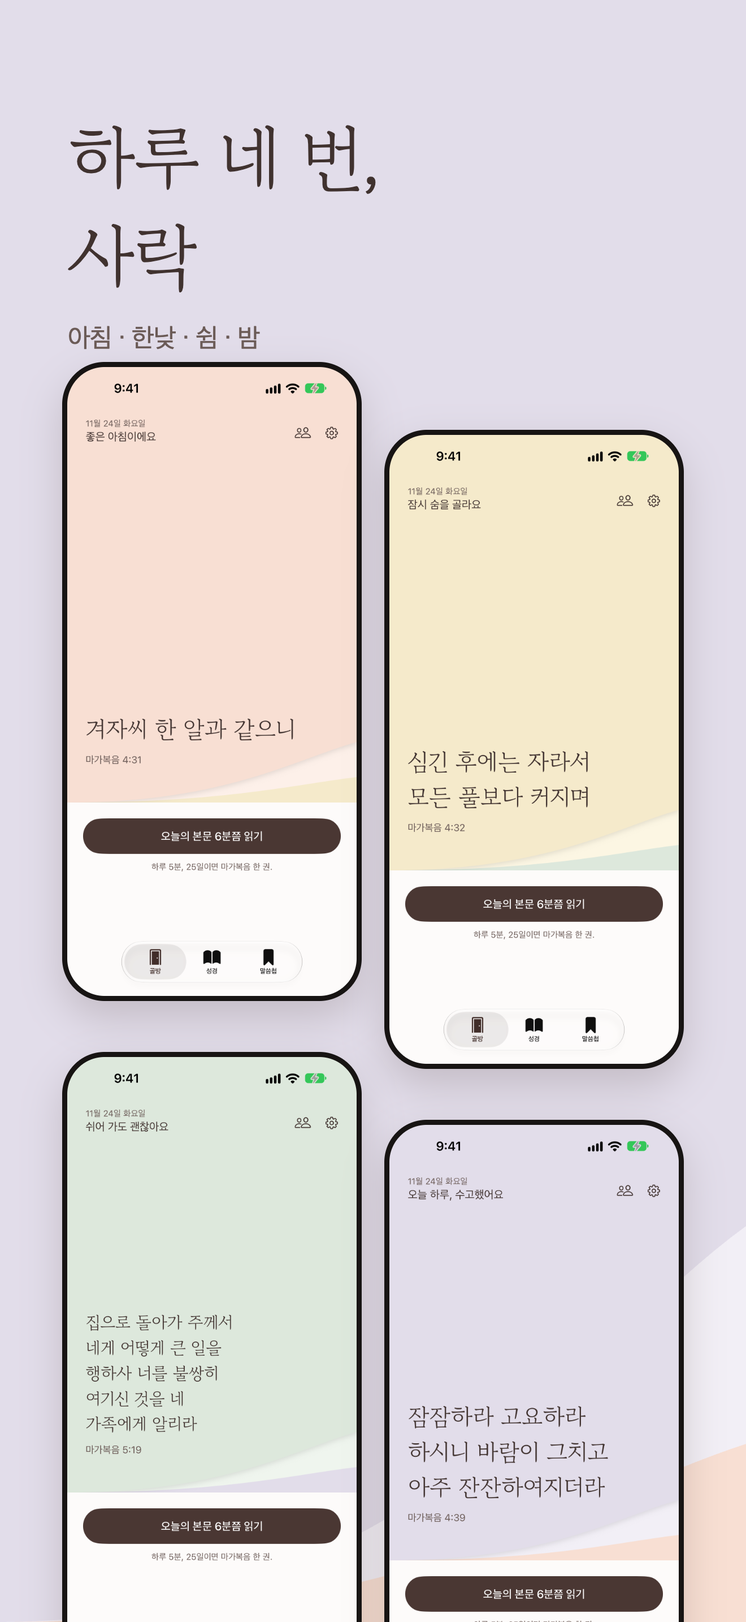
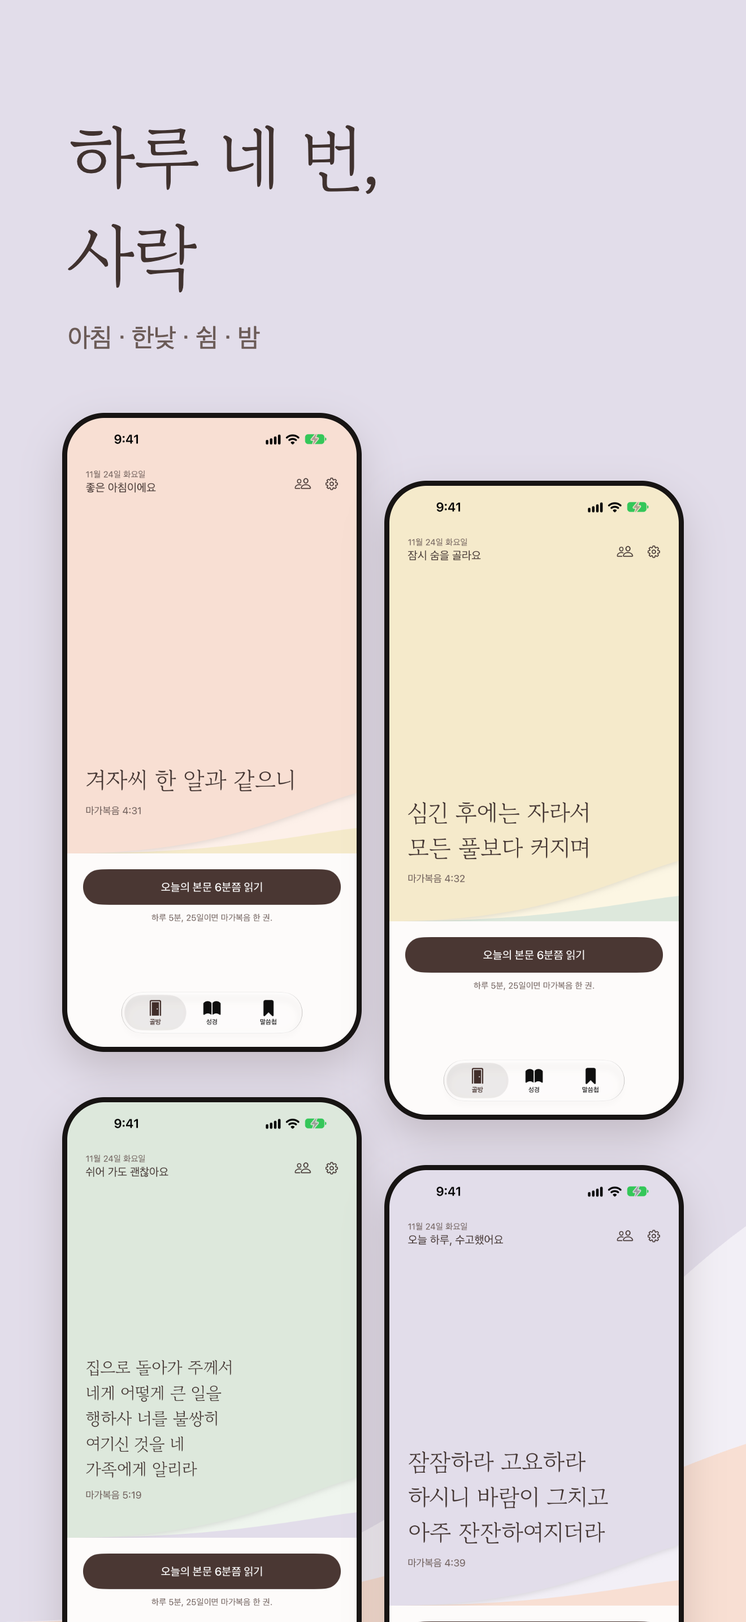
fix: 네 시간 스크린샷 간격

diff --git a/design/screenshots-store/source/board.html b/design/screenshots-store/source/board.html
@@ -1,1 +1,1 @@
-<!doctype html><html lang="ko"><meta charset="utf-8"><style>@font-face{font-family:GB;src:url(../../sarak-3/fonts/GowunBatang-Regular.ttf)}body{margin:0;width:2900px}section{position:relative;overflow:hidden;margin-bottom:40px}.bg{position:absolute;left:0;top:0}h1{position:absolute;margin:0;font:400 1em/1.36 GB;letter-spacing:-.035em;white-space:nowrap}h1 small{display:block;margin-top:.7em;letter-spacing:-.02em;font-family:"Apple SD Gothic Neo",sans-serif}.dev{position:absolute;background:#171413;box-shadow:0 30px 70px rgba(74,55,51,.20)}.dev img{display:block}section[id^=Watch] .dev{box-shadow:none}section[id^=Watch] small{display:none}</style><body><section id="iPhone-1" style="width:1320px;height:2868px"><svg class="bg" width="1320" height="2868"><rect width="1320" height="2868" fill="#DDE8DC"/><path d="M0 0H1320V2553C1030 2648 713 2868 0 2868Z" fill="#FCF6E3"/><path d="M0 0H1320V2168C1030 2378 713 2868 0 2868Z" fill="#F5EACB"/></svg><h1 style="left:120px;top:190px;font-size:128px;color:#40322F">오늘의 말씀이<br>찾아옵니다<small style="color:#6B5B57;font-size:46px">아침을 여는 한 구절</small></h1><div class="dev" style="left:141px;top:870px;border-radius:144px;padding:14px;transform:rotate(0deg)"><img src="../../screenshots-raw/iPhone/ph-room-morning.png" style="width:1010px;border-radius:130px"></div></section><section id="iPhone-2" style="width:1320px;height:2868px"><svg class="bg" width="1320" height="2868"><rect width="1320" height="2868" fill="#F8DFD3"/><path d="M0 0H1320V2553C1030 2648 713 2868 0 2868Z" fill="#F2EFF6"/><path d="M0 0H1320V2168C1030 2378 713 2868 0 2868Z" fill="#E2DDEA"/></svg><h1 style="left:120px;top:190px;font-size:128px;color:#40322F">하루 네 번,<br>사락<small style="color:#6B5B57;font-size:46px">아침 · 한낮 · 쉼 · 밤</small></h1><div class="dev" style="left:110px;top:640px;border-radius:75px;padding:9px;transform:rotate(0deg)"><img src="../../screenshots-raw/iPhone/ph-room-morning.png" style="width:512px;border-radius:66px"></div><div class="dev" style="left:680px;top:760px;border-radius:75px;padding:9px;transform:rotate(0deg)"><img src="../../screenshots-raw/iPhone/ph-room-noon.png" style="width:512px;border-radius:66px"></div><div class="dev" style="left:110px;top:1860px;border-radius:75px;padding:9px;transform:rotate(0deg)"><img src="../../screenshots-raw/iPhone/ph-room-rest.png" style="width:512px;border-radius:66px"></div><div class="dev" style="left:680px;top:1980px;border-radius:75px;padding:9px;transform:rotate(0deg)"><img src="../../screenshots-raw/iPhone/ph-room-night.png" style="width:512px;border-radius:66px"></div></section><section id="iPhone-3" style="width:1320px;height:2868px"><svg class="bg" width="1320" height="2868"><rect width="1320" height="2868" fill="#E2DDEA"/><path d="M0 0H1320V2553C1030 2648 713 2868 0 2868Z" fill="#EFF5EE"/><path d="M0 0H1320V2168C1030 2378 713 2868 0 2868Z" fill="#DDE8DC"/></svg><h1 style="left:120px;top:190px;font-size:128px;color:#40322F">하루 5분,<br>마가복음 한 권<small style="color:#6B5B57;font-size:46px">25일이면 끝까지 읽어요</small></h1><div class="dev" style="left:141px;top:870px;border-radius:144px;padding:14px;transform:rotate(0deg)"><img src="../../screenshots-raw/iPhone/ph-read-morning.png" style="width:1010px;border-radius:130px"></div></section><section id="iPhone-4" style="width:1320px;height:2868px"><svg class="bg" width="1320" height="2868"><rect width="1320" height="2868" fill="#F8DFD3"/><path d="M0 0H1320V2553C1030 2648 713 2868 0 2868Z" fill="#F2EFF6"/><path d="M0 0H1320V2168C1030 2378 713 2868 0 2868Z" fill="#E2DDEA"/></svg><h1 style="left:120px;top:190px;font-size:128px;color:#40322F">마음에 머문 말씀을<br>품어 두세요<small style="color:#6B5B57;font-size:46px">받은 때의 색이 책갈피가 됩니다</small></h1><div class="dev" style="left:141px;top:870px;border-radius:144px;padding:14px;transform:rotate(0deg)"><img src="../../screenshots-raw/iPhone/ph-keep-morning.png" style="width:1010px;border-radius:130px"></div></section><section id="iPhone-5" style="width:1320px;height:2868px"><svg class="bg" width="1320" height="2868"><rect width="1320" height="2868" fill="#F5EACB"/><path d="M0 0H1320V2553C1030 2648 713 2868 0 2868Z" fill="#FDF0E9"/><path d="M0 0H1320V2168C1030 2378 713 2868 0 2868Z" fill="#F8DFD3"/></svg><h1 style="left:120px;top:190px;font-size:128px;color:#40322F">오늘도 한 장<br>넘어갑니다<small style="color:#6B5B57;font-size:46px">감사 한 줄을 남겨 보세요</small></h1><div class="dev" style="left:141px;top:870px;border-radius:144px;padding:14px;transform:rotate(0deg)"><img src="../../screenshots-raw/iPhone/ph-done-rest.png" style="width:1010px;border-radius:130px"></div></section><section id="iPhone-6" style="width:1320px;height:2868px"><svg class="bg" width="1320" height="2868"><rect width="1320" height="2868" fill="#5A443C"/><path d="M0 0H1320V2553C1030 2648 713 2868 0 2868Z" fill="#575164"/><path d="M0 0H1320V2168C1030 2378 713 2868 0 2868Z" fill="#2E2A38"/></svg><h1 style="left:120px;top:190px;font-size:128px;color:#F6ECE6">하루를 덮는<br>밤의 말씀<small style="color:#C6B6AE;font-size:46px">어두운 화면에서도 편안하게</small></h1><div class="dev" style="left:141px;top:870px;border-radius:144px;padding:14px;transform:rotate(0deg)"><img src="../../screenshots-raw/iPhone/ph-room-dark.png" style="width:1010px;border-radius:130px"></div></section><section id="iPad-1" style="width:2064px;height:2752px"><svg class="bg" width="2064" height="2752"><rect width="2064" height="2752" fill="#DDE8DC"/><path d="M0 0H2064V2473C1610 2557 1115 2752 0 2752Z" fill="#FCF6E3"/><path d="M0 0H2064V2132C1610 2318 1115 2752 0 2752Z" fill="#F5EACB"/></svg><h1 style="left:170px;top:200px;font-size:150px;color:#40322F">오늘의 말씀이<br>찾아옵니다<small style="color:#6B5B57;font-size:54px">하루 네 번, 시간의 색으로</small></h1><div class="dev" style="left:238px;top:800px;border-radius:58px;padding:14px;transform:rotate(0deg)"><img src="../../screenshots-raw/iPad/pad-room-morning.png" style="width:1560px;border-radius:44px"></div></section><section id="iPad-2" style="width:2064px;height:2752px"><svg class="bg" width="2064" height="2752"><rect width="2064" height="2752" fill="#E2DDEA"/><path d="M0 0H2064V2473C1610 2557 1115 2752 0 2752Z" fill="#EFF5EE"/><path d="M0 0H2064V2132C1610 2318 1115 2752 0 2752Z" fill="#DDE8DC"/></svg><h1 style="left:170px;top:200px;font-size:150px;color:#40322F">펼치면,<br>한 권의 책<small style="color:#6B5B57;font-size:54px">왼쪽에는 말씀, 오른쪽에는 오늘의 본문</small></h1><div class="dev" style="left:98px;top:960px;border-radius:58px;padding:14px;transform:rotate(0deg)"><img src="../../screenshots-raw/iPad/padL-room-morning.png" style="width:1840px;border-radius:44px"></div></section><section id="iPad-3" style="width:2064px;height:2752px"><svg class="bg" width="2064" height="2752"><rect width="2064" height="2752" fill="#F8DFD3"/><path d="M0 0H2064V2473C1610 2557 1115 2752 0 2752Z" fill="#F2EFF6"/><path d="M0 0H2064V2132C1610 2318 1115 2752 0 2752Z" fill="#E2DDEA"/></svg><h1 style="left:170px;top:200px;font-size:150px;color:#40322F">하루 5분,<br>마가복음 한 권<small style="color:#6B5B57;font-size:54px">25일이면 끝까지 읽어요</small></h1><div class="dev" style="left:238px;top:800px;border-radius:58px;padding:14px;transform:rotate(0deg)"><img src="../../screenshots-raw/iPad/pad-read-morning.png" style="width:1560px;border-radius:44px"></div></section><section id="iPad-4" style="width:2064px;height:2752px"><svg class="bg" width="2064" height="2752"><rect width="2064" height="2752" fill="#F5EACB"/><path d="M0 0H2064V2473C1610 2557 1115 2752 0 2752Z" fill="#FDF0E9"/><path d="M0 0H2064V2132C1610 2318 1115 2752 0 2752Z" fill="#F8DFD3"/></svg><h1 style="left:170px;top:200px;font-size:150px;color:#40322F">마음에 머문 말씀을<br>품어 두세요<small style="color:#6B5B57;font-size:54px">넓은 화면에서 한 구절씩</small></h1><div class="dev" style="left:98px;top:960px;border-radius:58px;padding:14px;transform:rotate(0deg)"><img src="../../screenshots-raw/iPad/padL-keep-morning.png" style="width:1840px;border-radius:44px"></div></section><section id="iPhone-Duo-1" style="width:2853px;height:2007px"><svg class="bg" width="2853" height="2007"><rect width="2853" height="2007" fill="#DDE8DC"/><path d="M0 0H2853V1800C2225 1862 1541 2007 0 2007Z" fill="#FCF6E3"/><path d="M0 0H2853V1547C2225 1685 1541 2007 0 2007Z" fill="#F5EACB"/></svg><h1 style="left:180px;top:150px;font-size:140px;color:#40322F">펼치면, 한 권의 책<small style="color:#6B5B57;font-size:50px">왼쪽에는 말씀, 오른쪽에는 오늘의 본문</small></h1><div class="dev" style="left:470px;top:690px;border-radius:126px;padding:16px;transform:rotate(0deg)"><img src="../../screenshots-raw/iPhone-Duo/duoO-room-morning.png" style="width:1900px;border-radius:110px"></div></section><section id="iPhone-Duo-2" style="width:2853px;height:2007px"><svg class="bg" width="2853" height="2007"><rect width="2853" height="2007" fill="#F5EACB"/><path d="M0 0H2853V1800C2225 1862 1541 2007 0 2007Z" fill="#FDF0E9"/><path d="M0 0H2853V1547C2225 1685 1541 2007 0 2007Z" fill="#F8DFD3"/></svg><h1 style="left:180px;top:150px;font-size:140px;color:#40322F">하루를 덮는 밤의 말씀<small style="color:#6B5B57;font-size:50px">하루 네 번, 시간의 색으로</small></h1><div class="dev" style="left:470px;top:690px;border-radius:126px;padding:16px;transform:rotate(0deg)"><img src="../../screenshots-raw/iPhone-Duo/duoO-room-night.png" style="width:1900px;border-radius:110px"></div></section><section id="iPhone-Duo-3" style="width:2853px;height:2007px"><svg class="bg" width="2853" height="2007"><rect width="2853" height="2007" fill="#E2DDEA"/><path d="M0 0H2853V1800C2225 1862 1541 2007 0 2007Z" fill="#EFF5EE"/><path d="M0 0H2853V1547C2225 1685 1541 2007 0 2007Z" fill="#DDE8DC"/></svg><h1 style="left:180px;top:150px;font-size:140px;color:#40322F">마음에 머문 말씀을 품어 두세요<small style="color:#6B5B57;font-size:50px">목록과 한 구절을 나란히</small></h1><div class="dev" style="left:470px;top:690px;border-radius:126px;padding:16px;transform:rotate(0deg)"><img src="../../screenshots-raw/iPhone-Duo/duoO-keep-morning.png" style="width:1900px;border-radius:110px"></div></section><section id="iPhone-Duo-4-접힘" style="width:1398px;height:2034px"><svg class="bg" width="1398" height="2034"><rect width="1398" height="2034" fill="#F8DFD3"/><path d="M0 0H1398V1827C1090 1889 755 2034 0 2034Z" fill="#F2EFF6"/><path d="M0 0H1398V1574C1090 1712 755 2034 0 2034Z" fill="#E2DDEA"/></svg><h1 style="left:120px;top:150px;font-size:110px;color:#40322F">접으면, 한 구절<small style="color:#6B5B57;font-size:40px">말씀과 버튼이 한 화면에</small></h1><div class="dev" style="left:195px;top:560px;border-radius:110px;padding:14px;transform:rotate(0deg)"><img src="../../screenshots-raw/iPhone-Duo/duoC-room-morning.png" style="width:980px;border-radius:96px"></div></section><section id="Watch-1" style="width:416px;height:496px"><svg class="bg" width="416" height="496"><rect width="416" height="496" fill="#DDE8DC"/><path d="M0 0H416V446C324 461 225 496 0 496Z" fill="#FCF6E3"/><path d="M0 0H416V386C324 419 225 496 0 496Z" fill="#F5EACB"/></svg><h1 style="left:30px;top:34px;font-size:36px;color:#40322F">손목 위의 한 구절<small style="color:#6B5B57;font-size:13px"></small></h1><div class="dev" style="left:64px;top:150px;border-radius:68px;padding:10px;transform:rotate(0deg)"><img src="../../screenshots-raw/Watch/w-morning.png" style="width:268px;border-radius:58px"></div></section><section id="Watch-2" style="width:416px;height:496px"><svg class="bg" width="416" height="496"><rect width="416" height="496" fill="#E2DDEA"/><path d="M0 0H416V446C324 461 225 496 0 496Z" fill="#EFF5EE"/><path d="M0 0H416V386C324 419 225 496 0 496Z" fill="#DDE8DC"/></svg><h1 style="left:30px;top:34px;font-size:36px;color:#40322F">잠시 숨을 골라요<small style="color:#6B5B57;font-size:13px"></small></h1><div class="dev" style="left:64px;top:150px;border-radius:68px;padding:10px;transform:rotate(0deg)"><img src="../../screenshots-raw/Watch/w-noon.png" style="width:268px;border-radius:58px"></div></section><section id="Watch-3" style="width:416px;height:496px"><svg class="bg" width="416" height="496"><rect width="416" height="496" fill="#F5EACB"/><path d="M0 0H416V446C324 461 225 496 0 496Z" fill="#FDF0E9"/><path d="M0 0H416V386C324 419 225 496 0 496Z" fill="#F8DFD3"/></svg><h1 style="left:30px;top:34px;font-size:36px;color:#40322F">하루를 덮는 말씀<small style="color:#6B5B57;font-size:13px"></small></h1><div class="dev" style="left:64px;top:150px;border-radius:68px;padding:10px;transform:rotate(0deg)"><img src="../../screenshots-raw/Watch/w-night.png" style="width:268px;border-radius:58px"></div></section></body></html>
+<!doctype html><html lang="ko"><meta charset="utf-8"><style>@font-face{font-family:GB;src:url(../../sarak-3/fonts/GowunBatang-Regular.ttf)}body{margin:0;width:2900px}section{position:relative;overflow:hidden;margin-bottom:40px}.bg{position:absolute;left:0;top:0}h1{position:absolute;margin:0;font:400 1em/1.36 GB;letter-spacing:-.035em;white-space:nowrap}h1 small{display:block;margin-top:.7em;letter-spacing:-.02em;font-family:"Apple SD Gothic Neo",sans-serif}.dev{position:absolute;background:#171413;box-shadow:0 30px 70px rgba(74,55,51,.20)}.dev img{display:block}section[id^=Watch] .dev{box-shadow:none}section[id^=Watch] small{display:none}</style><body><section id="iPhone-1" style="width:1320px;height:2868px"><svg class="bg" width="1320" height="2868"><rect width="1320" height="2868" fill="#DDE8DC"/><path d="M0 0H1320V2553C1030 2648 713 2868 0 2868Z" fill="#FCF6E3"/><path d="M0 0H1320V2168C1030 2378 713 2868 0 2868Z" fill="#F5EACB"/></svg><h1 style="left:120px;top:190px;font-size:128px;color:#40322F">오늘의 말씀이<br>찾아옵니다<small style="color:#6B5B57;font-size:46px">아침을 여는 한 구절</small></h1><div class="dev" style="left:141px;top:870px;border-radius:144px;padding:14px;transform:rotate(0deg)"><img src="../../screenshots-raw/iPhone/ph-room-morning.png" style="width:1010px;border-radius:130px"></div></section><section id="iPhone-2" style="width:1320px;height:2868px"><svg class="bg" width="1320" height="2868"><rect width="1320" height="2868" fill="#F8DFD3"/><path d="M0 0H1320V2553C1030 2648 713 2868 0 2868Z" fill="#F2EFF6"/><path d="M0 0H1320V2168C1030 2378 713 2868 0 2868Z" fill="#E2DDEA"/></svg><h1 style="left:120px;top:190px;font-size:128px;color:#40322F">하루 네 번,<br>사락<small style="color:#6B5B57;font-size:46px">아침 · 한낮 · 쉼 · 밤</small></h1><div class="dev" style="left:110px;top:730px;border-radius:75px;padding:9px;transform:rotate(0deg)"><img src="../../screenshots-raw/iPhone/ph-room-morning.png" style="width:512px;border-radius:66px"></div><div class="dev" style="left:680px;top:850px;border-radius:75px;padding:9px;transform:rotate(0deg)"><img src="../../screenshots-raw/iPhone/ph-room-noon.png" style="width:512px;border-radius:66px"></div><div class="dev" style="left:110px;top:1940px;border-radius:75px;padding:9px;transform:rotate(0deg)"><img src="../../screenshots-raw/iPhone/ph-room-rest.png" style="width:512px;border-radius:66px"></div><div class="dev" style="left:680px;top:2060px;border-radius:75px;padding:9px;transform:rotate(0deg)"><img src="../../screenshots-raw/iPhone/ph-room-night.png" style="width:512px;border-radius:66px"></div></section><section id="iPhone-3" style="width:1320px;height:2868px"><svg class="bg" width="1320" height="2868"><rect width="1320" height="2868" fill="#E2DDEA"/><path d="M0 0H1320V2553C1030 2648 713 2868 0 2868Z" fill="#EFF5EE"/><path d="M0 0H1320V2168C1030 2378 713 2868 0 2868Z" fill="#DDE8DC"/></svg><h1 style="left:120px;top:190px;font-size:128px;color:#40322F">하루 5분,<br>마가복음 한 권<small style="color:#6B5B57;font-size:46px">25일이면 끝까지 읽어요</small></h1><div class="dev" style="left:141px;top:870px;border-radius:144px;padding:14px;transform:rotate(0deg)"><img src="../../screenshots-raw/iPhone/ph-read-morning.png" style="width:1010px;border-radius:130px"></div></section><section id="iPhone-4" style="width:1320px;height:2868px"><svg class="bg" width="1320" height="2868"><rect width="1320" height="2868" fill="#F8DFD3"/><path d="M0 0H1320V2553C1030 2648 713 2868 0 2868Z" fill="#F2EFF6"/><path d="M0 0H1320V2168C1030 2378 713 2868 0 2868Z" fill="#E2DDEA"/></svg><h1 style="left:120px;top:190px;font-size:128px;color:#40322F">마음에 머문 말씀을<br>품어 두세요<small style="color:#6B5B57;font-size:46px">받은 때의 색이 책갈피가 됩니다</small></h1><div class="dev" style="left:141px;top:870px;border-radius:144px;padding:14px;transform:rotate(0deg)"><img src="../../screenshots-raw/iPhone/ph-keep-morning.png" style="width:1010px;border-radius:130px"></div></section><section id="iPhone-5" style="width:1320px;height:2868px"><svg class="bg" width="1320" height="2868"><rect width="1320" height="2868" fill="#F5EACB"/><path d="M0 0H1320V2553C1030 2648 713 2868 0 2868Z" fill="#FDF0E9"/><path d="M0 0H1320V2168C1030 2378 713 2868 0 2868Z" fill="#F8DFD3"/></svg><h1 style="left:120px;top:190px;font-size:128px;color:#40322F">오늘도 한 장<br>넘어갑니다<small style="color:#6B5B57;font-size:46px">감사 한 줄을 남겨 보세요</small></h1><div class="dev" style="left:141px;top:870px;border-radius:144px;padding:14px;transform:rotate(0deg)"><img src="../../screenshots-raw/iPhone/ph-done-rest.png" style="width:1010px;border-radius:130px"></div></section><section id="iPhone-6" style="width:1320px;height:2868px"><svg class="bg" width="1320" height="2868"><rect width="1320" height="2868" fill="#5A443C"/><path d="M0 0H1320V2553C1030 2648 713 2868 0 2868Z" fill="#575164"/><path d="M0 0H1320V2168C1030 2378 713 2868 0 2868Z" fill="#2E2A38"/></svg><h1 style="left:120px;top:190px;font-size:128px;color:#F6ECE6">하루를 덮는<br>밤의 말씀<small style="color:#C6B6AE;font-size:46px">어두운 화면에서도 편안하게</small></h1><div class="dev" style="left:141px;top:870px;border-radius:144px;padding:14px;transform:rotate(0deg)"><img src="../../screenshots-raw/iPhone/ph-room-dark.png" style="width:1010px;border-radius:130px"></div></section><section id="iPad-1" style="width:2064px;height:2752px"><svg class="bg" width="2064" height="2752"><rect width="2064" height="2752" fill="#DDE8DC"/><path d="M0 0H2064V2473C1610 2557 1115 2752 0 2752Z" fill="#FCF6E3"/><path d="M0 0H2064V2132C1610 2318 1115 2752 0 2752Z" fill="#F5EACB"/></svg><h1 style="left:170px;top:200px;font-size:150px;color:#40322F">오늘의 말씀이<br>찾아옵니다<small style="color:#6B5B57;font-size:54px">하루 네 번, 시간의 색으로</small></h1><div class="dev" style="left:238px;top:800px;border-radius:58px;padding:14px;transform:rotate(0deg)"><img src="../../screenshots-raw/iPad/pad-room-morning.png" style="width:1560px;border-radius:44px"></div></section><section id="iPad-2" style="width:2064px;height:2752px"><svg class="bg" width="2064" height="2752"><rect width="2064" height="2752" fill="#E2DDEA"/><path d="M0 0H2064V2473C1610 2557 1115 2752 0 2752Z" fill="#EFF5EE"/><path d="M0 0H2064V2132C1610 2318 1115 2752 0 2752Z" fill="#DDE8DC"/></svg><h1 style="left:170px;top:200px;font-size:150px;color:#40322F">펼치면,<br>한 권의 책<small style="color:#6B5B57;font-size:54px">왼쪽에는 말씀, 오른쪽에는 오늘의 본문</small></h1><div class="dev" style="left:98px;top:960px;border-radius:58px;padding:14px;transform:rotate(0deg)"><img src="../../screenshots-raw/iPad/padL-room-morning.png" style="width:1840px;border-radius:44px"></div></section><section id="iPad-3" style="width:2064px;height:2752px"><svg class="bg" width="2064" height="2752"><rect width="2064" height="2752" fill="#F8DFD3"/><path d="M0 0H2064V2473C1610 2557 1115 2752 0 2752Z" fill="#F2EFF6"/><path d="M0 0H2064V2132C1610 2318 1115 2752 0 2752Z" fill="#E2DDEA"/></svg><h1 style="left:170px;top:200px;font-size:150px;color:#40322F">하루 5분,<br>마가복음 한 권<small style="color:#6B5B57;font-size:54px">25일이면 끝까지 읽어요</small></h1><div class="dev" style="left:238px;top:800px;border-radius:58px;padding:14px;transform:rotate(0deg)"><img src="../../screenshots-raw/iPad/pad-read-morning.png" style="width:1560px;border-radius:44px"></div></section><section id="iPad-4" style="width:2064px;height:2752px"><svg class="bg" width="2064" height="2752"><rect width="2064" height="2752" fill="#F5EACB"/><path d="M0 0H2064V2473C1610 2557 1115 2752 0 2752Z" fill="#FDF0E9"/><path d="M0 0H2064V2132C1610 2318 1115 2752 0 2752Z" fill="#F8DFD3"/></svg><h1 style="left:170px;top:200px;font-size:150px;color:#40322F">마음에 머문 말씀을<br>품어 두세요<small style="color:#6B5B57;font-size:54px">넓은 화면에서 한 구절씩</small></h1><div class="dev" style="left:98px;top:960px;border-radius:58px;padding:14px;transform:rotate(0deg)"><img src="../../screenshots-raw/iPad/padL-keep-morning.png" style="width:1840px;border-radius:44px"></div></section><section id="iPhone-Duo-1" style="width:2853px;height:2007px"><svg class="bg" width="2853" height="2007"><rect width="2853" height="2007" fill="#DDE8DC"/><path d="M0 0H2853V1800C2225 1862 1541 2007 0 2007Z" fill="#FCF6E3"/><path d="M0 0H2853V1547C2225 1685 1541 2007 0 2007Z" fill="#F5EACB"/></svg><h1 style="left:180px;top:150px;font-size:140px;color:#40322F">펼치면, 한 권의 책<small style="color:#6B5B57;font-size:50px">왼쪽에는 말씀, 오른쪽에는 오늘의 본문</small></h1><div class="dev" style="left:470px;top:690px;border-radius:126px;padding:16px;transform:rotate(0deg)"><img src="../../screenshots-raw/iPhone-Duo/duoO-room-morning.png" style="width:1900px;border-radius:110px"></div></section><section id="iPhone-Duo-2" style="width:2853px;height:2007px"><svg class="bg" width="2853" height="2007"><rect width="2853" height="2007" fill="#F5EACB"/><path d="M0 0H2853V1800C2225 1862 1541 2007 0 2007Z" fill="#FDF0E9"/><path d="M0 0H2853V1547C2225 1685 1541 2007 0 2007Z" fill="#F8DFD3"/></svg><h1 style="left:180px;top:150px;font-size:140px;color:#40322F">하루를 덮는 밤의 말씀<small style="color:#6B5B57;font-size:50px">하루 네 번, 시간의 색으로</small></h1><div class="dev" style="left:470px;top:690px;border-radius:126px;padding:16px;transform:rotate(0deg)"><img src="../../screenshots-raw/iPhone-Duo/duoO-room-night.png" style="width:1900px;border-radius:110px"></div></section><section id="iPhone-Duo-3" style="width:2853px;height:2007px"><svg class="bg" width="2853" height="2007"><rect width="2853" height="2007" fill="#E2DDEA"/><path d="M0 0H2853V1800C2225 1862 1541 2007 0 2007Z" fill="#EFF5EE"/><path d="M0 0H2853V1547C2225 1685 1541 2007 0 2007Z" fill="#DDE8DC"/></svg><h1 style="left:180px;top:150px;font-size:140px;color:#40322F">마음에 머문 말씀을 품어 두세요<small style="color:#6B5B57;font-size:50px">목록과 한 구절을 나란히</small></h1><div class="dev" style="left:470px;top:690px;border-radius:126px;padding:16px;transform:rotate(0deg)"><img src="../../screenshots-raw/iPhone-Duo/duoO-keep-morning.png" style="width:1900px;border-radius:110px"></div></section><section id="iPhone-Duo-4-접힘" style="width:1398px;height:2034px"><svg class="bg" width="1398" height="2034"><rect width="1398" height="2034" fill="#F8DFD3"/><path d="M0 0H1398V1827C1090 1889 755 2034 0 2034Z" fill="#F2EFF6"/><path d="M0 0H1398V1574C1090 1712 755 2034 0 2034Z" fill="#E2DDEA"/></svg><h1 style="left:120px;top:150px;font-size:110px;color:#40322F">접으면, 한 구절<small style="color:#6B5B57;font-size:40px">말씀과 버튼이 한 화면에</small></h1><div class="dev" style="left:195px;top:560px;border-radius:110px;padding:14px;transform:rotate(0deg)"><img src="../../screenshots-raw/iPhone-Duo/duoC-room-morning.png" style="width:980px;border-radius:96px"></div></section><section id="Watch-1" style="width:416px;height:496px"><svg class="bg" width="416" height="496"><rect width="416" height="496" fill="#DDE8DC"/><path d="M0 0H416V446C324 461 225 496 0 496Z" fill="#FCF6E3"/><path d="M0 0H416V386C324 419 225 496 0 496Z" fill="#F5EACB"/></svg><h1 style="left:30px;top:34px;font-size:36px;color:#40322F">손목 위의 한 구절<small style="color:#6B5B57;font-size:13px"></small></h1><div class="dev" style="left:64px;top:150px;border-radius:68px;padding:10px;transform:rotate(0deg)"><img src="../../screenshots-raw/Watch/w-morning.png" style="width:268px;border-radius:58px"></div></section><section id="Watch-2" style="width:416px;height:496px"><svg class="bg" width="416" height="496"><rect width="416" height="496" fill="#E2DDEA"/><path d="M0 0H416V446C324 461 225 496 0 496Z" fill="#EFF5EE"/><path d="M0 0H416V386C324 419 225 496 0 496Z" fill="#DDE8DC"/></svg><h1 style="left:30px;top:34px;font-size:36px;color:#40322F">잠시 숨을 골라요<small style="color:#6B5B57;font-size:13px"></small></h1><div class="dev" style="left:64px;top:150px;border-radius:68px;padding:10px;transform:rotate(0deg)"><img src="../../screenshots-raw/Watch/w-noon.png" style="width:268px;border-radius:58px"></div></section><section id="Watch-3" style="width:416px;height:496px"><svg class="bg" width="416" height="496"><rect width="416" height="496" fill="#F5EACB"/><path d="M0 0H416V446C324 461 225 496 0 496Z" fill="#FDF0E9"/><path d="M0 0H416V386C324 419 225 496 0 496Z" fill="#F8DFD3"/></svg><h1 style="left:30px;top:34px;font-size:36px;color:#40322F">하루를 덮는 말씀<small style="color:#6B5B57;font-size:13px"></small></h1><div class="dev" style="left:64px;top:150px;border-radius:68px;padding:10px;transform:rotate(0deg)"><img src="../../screenshots-raw/Watch/w-night.png" style="width:268px;border-radius:58px"></div></section></body></html>

diff --git a/design/screenshots-store/source/build.py b/design/screenshots-store/source/build.py
@@ -13,7 +13,7 @@ def canvas(id,w,h,t,head,sub,body,fs,pad,top,c):
     out.append(f'<section id="{id}" style="width:{w}px;height:{h}px">{curve(w,h,c,t)}<h1 style="left:{pad}px;top:{top}px;font-size:{fs}px;color:{ink}">{head}<small style="color:{s2};font-size:{fs*.36:.0f}px">{sub}</small></h1>{body}</section>')
 def phone(id,t,head,sub,src): canvas(id,1320,2868,t,head,sub,shot('iPhone/'+src,1010,141,870,130,14),128,120,190,700)
 phone('iPhone-1','n','오늘의 말씀이<br>찾아옵니다','아침을 여는 한 구절','ph-room-morning.png')
-xs=[('ph-room-morning.png',110,640),('ph-room-noon.png',680,760),('ph-room-rest.png',110,1860),('ph-room-night.png',680,1980)]
+xs=[('ph-room-morning.png',110,730),('ph-room-noon.png',680,850),('ph-room-rest.png',110,1940),('ph-room-night.png',680,2060)]
 canvas('iPhone-2',1320,2868,'l','하루 네 번,<br>사락','아침 · 한낮 · 쉼 · 밤',''.join(shot('iPhone/'+a,512,x,y,66,9) for a,x,y in xs),128,120,190,700)
 phone('iPhone-3','r','하루 5분,<br>마가복음 한 권','25일이면 끝까지 읽어요','ph-read-morning.png')
 phone('iPhone-4','l','마음에 머문 말씀을<br>품어 두세요','받은 때의 색이 책갈피가 됩니다','ph-keep-morning.png')
